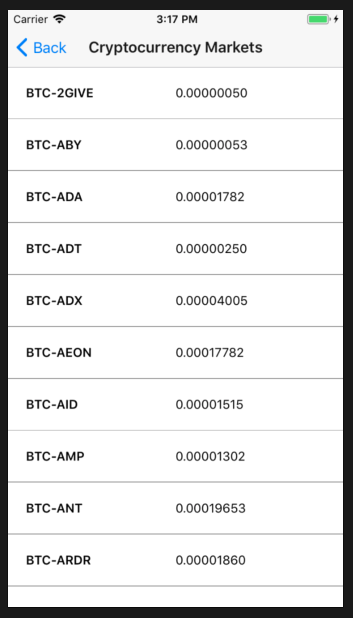
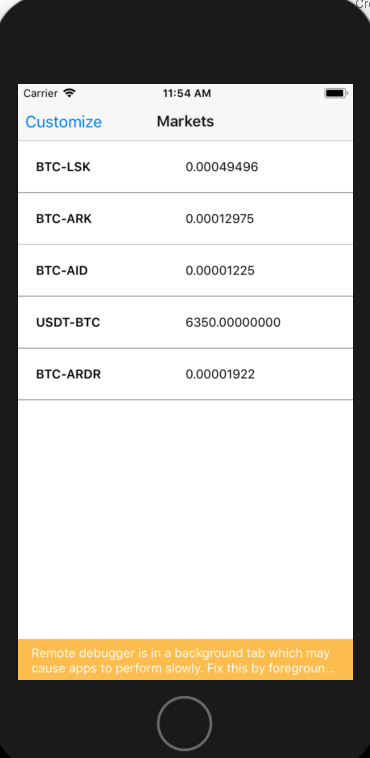
Adding multi-exchange functionality

diff --git a/Actions/getMarketTick.spec.js b/Actions/getMarketTick.spec.js
@@ -16,7 +16,7 @@ describe('getMarketTick', () => {
     afterEach(() => axiosStub.restore());
 
     it('Dispatches result', done => {
-        getMarketTick({ market: 'BTC-ARK', interval: IntervalKeys.ONE_DAY }, () => done());
+        getMarketTick({ market: 'BTC-ARK', interval: IntervalKeys.ONE_DAY }, () => done()).catch(console.error);
     });
 
     it('Returns tick data', done => {
@@ -24,6 +24,14 @@ describe('getMarketTick', () => {
             expect(typeof data.data).toEqual('object');
             done();
         }
-        getMarketTick({ market: 'BTC-ARK', interval: IntervalKeys.ONE_DAY }, dispatch);
+        getMarketTick({ market: 'BTC-ARK', interval: IntervalKeys.ONE_DAY }, dispatch).catch(console.error);
+    });
+
+    it('Maps exchange name', done => {
+        const dispatch = data => {
+            expect(data.data.exchange).toEqual('Bittrex');
+            done();
+        }
+        getMarketTick({ market: 'BTC-ARK', interval: IntervalKeys.ONE_DAY }, dispatch).catch(console.error);
     });
 });

diff --git a/routes/RouteFactory.spec.js b/routes/RouteFactory.spec.js
@@ -18,18 +18,18 @@ describe('RouteFactory', () => {
     it(`Gets route for ${TICKS}`, () => {
         const route = getRoute(TICKS, 'BTC-LSK', IntervalKeys.THIRTY_MINS);
         const expectedRoute = stringFormat(BittrexRoutes[TICKS], 'BTC-LSK', IntervalKeys.THIRTY_MINS);
-        expect(route).toEqual(expectedRoute);
+        expect(route.url).toEqual(expectedRoute);
     });
 
     it(`Gets route for ${SUMMARY}`, () => {
         const route = getRoute(SUMMARY);
         const expectedRoute = BittrexRoutes[SUMMARY];
-        expect(route).toEqual(expectedRoute);
+        expect(route.url).toEqual(expectedRoute);
     });
 
     it(`Gets route for ${TICK}`, () => {
         const route = getRoute(TICK, 'BTC-LSK');
         const expectedRoute = stringFormat(BittrexRoutes[TICK], 'BTC-LSK');
-        expect(route).toEqual(expectedRoute);
+        expect(route.url).toEqual(expectedRoute);
     });
 });

diff --git a/Actions/getMarketTick.js b/Actions/getMarketTick.js
@@ -8,9 +8,10 @@ import _ from 'lodash';
 function getTickData(actionArgs, dispatch) {
     const getRoute = RouteFactory.create();
     const route = getRoute[0]('TICK', actionArgs.market);
-    axios.get(route).then(resp => {
+    const exchange = route.exchange;
+    return axios.get(route.url).then(resp => {
         const last = resp.data.result.Last;
-        actionArgs.data = { last };
+        actionArgs.data = { last, exchange };
         dispatch(actionArgs);
         return actionArgs;
     });
@@ -19,7 +20,7 @@ function getTickData(actionArgs, dispatch) {
 module.exports = (state = {}, dispatch) => {
     let actionArgs = {
         type: 'MarketTick',
-        market: state && state.market
+        market: state && state.market,
     };
 
     return getTickData(actionArgs, dispatch);

diff --git a/Actions/getMarkets.js b/Actions/getMarkets.js
@@ -10,10 +10,12 @@ module.exports = (args = {}, dispatch) => {
     routeCreators.forEach(routeCreator => {
         const route = routeCreator('SUMMARY');
         const previousMarkets = args.previous && args.previous.slice();
+        const exchange = route.exchange;
         promises.push(
-            axios.get(route).then(resp => {
+            axios.get(route.url).then(resp => {
                 let actionArgs = {
-                    type: 'Markets'
+                    type: 'Markets',
+                    exchange
                 };
                 actionArgs.data = resp.data.result;
                 actionArgs.previous = previousMarkets;

diff --git a/Actions/getMarket.js b/Actions/getMarket.js
@@ -9,9 +9,10 @@ function getHistoryData(actionArgs, dispatch) {
     const interval = Intervals[actionArgs.interval];
     const getRoute = RouteFactory.create();
     const route = getRoute[0]('TICKS', actionArgs.market, interval.intervalKey);
-    axios.get(route).then(resp => {
+    axios.get(route.url).then(resp => {
         actionArgs.data = fillHoles(resp.data.result, interval.interval);
         actionArgs.range = interval.range;
+        actionArgs.exchange = route.exchange;
         dispatch(actionArgs);
         return actionArgs;
     });

diff --git a/routes/RouteFactory.js b/routes/RouteFactory.js
@@ -19,7 +19,8 @@ function createRouteDelegate(routes) {
         const routeKey = _args[0];
         let urlTemplate = getUrlTemplate(routeKey, routes);
         _args[0] = urlTemplate;
-        return stringFormat( ..._args );
+        const url = stringFormat( ..._args );
+        return { url, exchange: routes.EXCHANGE };
     };
 };
 
@@ -29,5 +30,5 @@ module.exports = {
             // BinanceRoutes,
             createRouteDelegate(BittrexRoutes),
         ]
-    }
+    },
 }

diff --git a/Actions/getMarket.spec.js b/Actions/getMarket.spec.js
@@ -36,4 +36,13 @@ describe('getMarket', () => {
         }
         getMarket({ market: 'BTC-ARK', interval: IntervalKeys.ONE_DAY }, dispatch);
     });
+
+    it('Maps exchange name', done => {
+        const expected = Intervals[IntervalKeys.ONE_DAY].range;
+        const dispatch = data => {
+            expect(data.exchange).toEqual('Bittrex');
+            done();
+        }
+        getMarket({ market: 'BTC-ARK', interval: IntervalKeys.ONE_DAY }, dispatch);
+    });
 });

diff --git a/reducers/MarketsReducer.js b/reducers/MarketsReducer.js
@@ -34,6 +34,8 @@ function mapExchangeData (myCurrencies, thisExchangeData) {
 
 module.exports = (state = [], action) => {
 	const exchangeData = action.data.map(thisExchangeData => mapExchangeData(action.myCurrencies, thisExchangeData));
+	//ToDo - this will be assigned to the aggregate summary when implemented
+	exchangeData[0].markets[0].exchange = 'AGGREGATE';
 	return {
 		exchangeData: exchangeData,
 		markets: exchangeData[0].markets,

diff --git a/Actions/getMarkets.spec.js b/Actions/getMarkets.spec.js
@@ -36,4 +36,12 @@ describe('getMarkets', () => {
         }
         getMarkets(undefined, dispatch).catch(console.error);
     });
+
+    it('Maps exchange name', done => {
+        const dispatch = data => {
+            expect(data[0].exchange).toEqual('Bittrex');
+            done();
+        }
+        getMarkets(undefined, dispatch).catch(console.error);
+    });
 });

diff --git a/reducers/MarketsReducer.spec.js b/reducers/MarketsReducer.spec.js
@@ -52,4 +52,9 @@ describe('MarketsReducer', () => {
 		expect(data.allMarkets).toHaveLength(2);
 		expect(data.allMarkets[0].quoteCurrency).toEqual('LSK');
 	});
+
+    it('First item exchange is AGGREGATE', () => {
+		const data = getData();
+        expect(data.markets[0].exchange).toEqual('AGGREGATE');
+    });
 });
